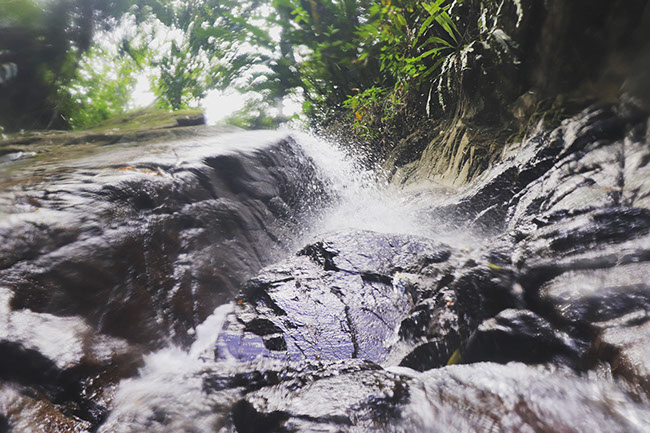
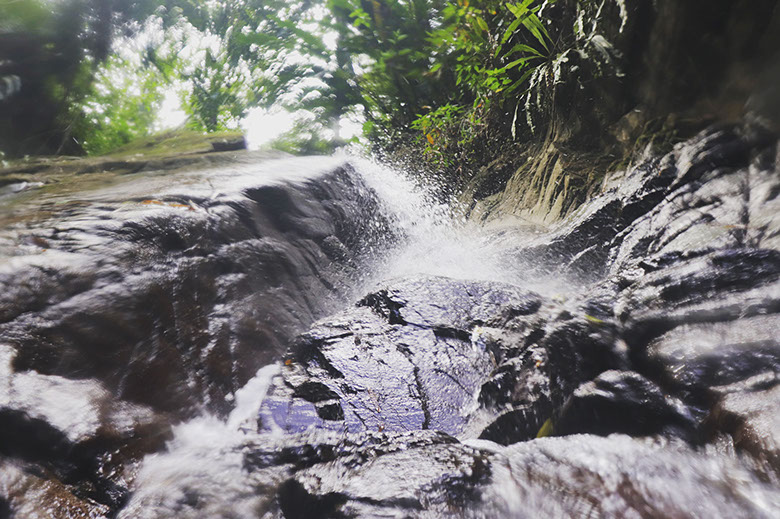
©

diff --git a/css/index.css b/css/index.css
@@ -1,1 +1,1 @@
-.version.index{color:#000019;background-color:#AFD612;}#page{z-index:1;width:960px;min-height:2310px;background-image:none;border-width:0px;border-color:#000000;background-color:#FFFFFF;margin-left:auto;margin-right:auto;}#page_position_content{padding-bottom:37px;width:0.01px;}#pu2362{z-index:49;width:0.01px;margin-left:-100px;}#u2362{z-index:49;height:62px;background-color:#2C2C2C;}.js body{visibility:hidden;}.js body.initialized{visibility:visible;}#u2362-bw{z-index:49;position:fixed;left:0px;right:0px;top:0px;}#menuu3822{z-index:50;width:400px;height:34px;border-width:0px;border-color:transparent;background-color:transparent;position:fixed;top:15px;left:310px;}#u3823{width:88px;min-height:34px;background-color:transparent;position:relative;margin-right:-10000px;}#u3824{width:88px;background-color:transparent;padding-bottom:17px;position:relative;}#u3824.MuseMenuActive{background-color:transparent;width:88px;min-height:0px;margin:0px;}#u3826-4{position:relative;margin-right:-10000px;top:8px;left:21px;}#u3826-4_clip{overflow:hidden;width:46px;height:17px;display:block;vertical-align:top;}#u3830{width:88px;min-height:34px;background-color:transparent;position:relative;margin-right:-10000px;left:90px;}#u3833{width:88px;background-color:transparent;padding-bottom:16px;position:relative;}#u3833:hover{background-color:#999999;width:88px;min-height:0px;margin:0px;}#u3833:active{background-color:#6B6B6B;width:88px;min-height:0px;margin:0px;}#u3836{height:18px;width:46px;vertical-align:top;position:relative;margin-right:-10000px;top:7px;left:21px;background:transparent url("../images/u3836.png?crc=4149235130") no-repeat 0px 0px;}.hidpi #u3836{background-image:url("../images/u3836_2x.png?crc=450650380");background-size:46px 18px;}#u3833.MuseMenuActive #u3836{background:transparent url("../images/u3836-a.png?crc=4152530115") no-repeat 0px 0px;}.hidpi #u3833.MuseMenuActive #u3836{background-image:url("../images/u3836-a_2x.png?crc=256771921");background-size:46px 18px;}#u3868{width:127px;min-height:34px;background-color:transparent;position:relative;margin-right:-10000px;left:180px;}#u3871{width:127px;background-color:transparent;padding-bottom:16px;position:relative;}#u3871:hover{background-color:#999999;width:127px;min-height:0px;margin:0px;}#u3871:active{background-color:#6B6B6B;width:127px;min-height:0px;margin:0px;}#u3872{height:18px;width:85px;vertical-align:top;position:relative;margin-right:-10000px;top:7px;left:21px;background:transparent url("../images/u3872.png?crc=313438367") no-repeat 0px 0px;}.hidpi #u3872{background-image:url("../images/u3872_2x.png?crc=466326802");background-size:85px 18px;}#u3871.MuseMenuActive #u3872{background:transparent url("../images/u3872-a.png?crc=3848881193") no-repeat 0px 0px;}.hidpi #u3871.MuseMenuActive #u3872{background-image:url("../images/u3872-a_2x.png?crc=4118279774");background-size:85px 18px;}#u3889{width:91px;min-height:34px;background-color:transparent;position:relative;margin-right:-10000px;left:309px;}#u3892{width:91px;background-color:transparent;padding-bottom:17px;position:relative;}#u3892:hover{background-color:#999999;width:91px;min-height:0px;margin:0px;}#u3892:active{background-color:#6B6B6B;width:91px;min-height:0px;margin:0px;}#u3895{height:17px;width:49px;vertical-align:top;position:relative;margin-right:-10000px;top:8px;left:21px;background:transparent url("../images/u3895.png?crc=52107680") no-repeat 0px 0px;}.hidpi #u3895{background-image:url("../images/u3895_2x.png?crc=3763377186");background-size:49px 17px;}#u3892.MuseMenuActive #u3895{background:transparent url("../images/u3895-a.png?crc=4263225876") no-repeat 0px 0px;}.hidpi #u3892.MuseMenuActive #u3895{background-image:url("../images/u3895-a_2x.png?crc=316500939");background-size:49px 17px;}.MenuItem{cursor:pointer;}#u4035{z-index:72;width:26px;background-color:transparent;position:fixed;top:18px;left:262px;}#pu2999-7{z-index:42;width:0.01px;padding-bottom:0px;margin-left:90px;margin-top:105px;}#u2999-7{z-index:42;display:block;vertical-align:top;margin-left:65px;position:relative;}#u2860{z-index:14;width:780px;background-color:transparent;margin-top:33px;position:relative;}#u2872-6{z-index:16;display:block;vertical-align:top;margin-left:219px;margin-top:15px;position:relative;}#pu1863{z-index:2;width:0.01px;margin-top:47px;}#u1863{z-index:2;width:230px;background-color:transparent;position:relative;margin-right:-10000px;}#u1865{z-index:4;width:230px;background-color:transparent;position:relative;margin-right:-10000px;left:275px;}#u1867{z-index:6;width:230px;background-color:transparent;position:relative;margin-right:-10000px;left:549px;}#u2878-6{z-index:28;display:block;vertical-align:top;margin-left:219px;margin-top:20px;position:relative;}#pu1896{z-index:8;width:0.01px;padding-bottom:57px;margin-top:44px;}#u1896{z-index:8;width:347px;background-color:transparent;-webkit-transform:matrix(0,1,-1,0,290,-57);-ms-transform:matrix(0,1,-1,0,290,-57);transform:matrix(0,1,-1,0,290,-57);position:relative;margin-right:-10000px;margin-top:57px;left:-57px;}#u1900{z-index:12;width:345px;background-color:transparent;-webkit-transform:matrix(0,1,-1,0,288,-57);-ms-transform:matrix(0,1,-1,0,288,-57);transform:matrix(0,1,-1,0,288,-57);position:relative;margin-right:-10000px;margin-top:57px;left:218px;}#u1898{z-index:10;width:345px;background-color:transparent;-webkit-transform:matrix(0,1,-1,0,288,-57);-ms-transform:matrix(0,1,-1,0,288,-57);transform:matrix(0,1,-1,0,288,-57);position:relative;margin-right:-10000px;margin-top:58px;left:491px;}#u2884-6{z-index:34;display:block;vertical-align:top;margin-left:219px;margin-top:20px;position:relative;}#u2943{z-index:40;width:650px;background-color:transparent;margin-left:65px;margin-top:68px;position:relative;}#u2959-6{z-index:22;display:block;vertical-align:top;margin-left:219px;top:-1px;margin-bottom:-1px;position:relative;}.css_verticalspacer .verticalspacer{height:calc(100vh - 2325px);}#muse_css_mq,.html{background-color:#FFFFFF;}body{position:relative;min-width:960px;}
+.version.index{color:#000002;background-color:#B097AB;}#page{z-index:1;width:960px;min-height:2451px;background-image:none;border-width:0px;border-color:#000000;background-color:#FFFFFF;margin-left:auto;margin-right:auto;}#page_position_content{padding-bottom:37px;width:0.01px;}#pu2362{z-index:53;width:0.01px;margin-left:-100px;}#u2362{z-index:53;height:62px;background-color:#2C2C2C;}.js body{visibility:hidden;}.js body.initialized{visibility:visible;}#u2362-bw{z-index:53;position:fixed;left:0px;right:0px;top:0px;}#menuu3822{z-index:54;width:400px;height:34px;border-width:0px;border-color:transparent;background-color:transparent;position:fixed;top:15px;left:310px;}#u3823{width:88px;min-height:34px;background-color:transparent;position:relative;margin-right:-10000px;}#u3824{width:88px;background-color:transparent;padding-bottom:17px;position:relative;}#u3824.MuseMenuActive{background-color:transparent;width:88px;min-height:0px;margin:0px;}#u3826-4{position:relative;margin-right:-10000px;top:8px;left:21px;}#u3826-4_clip{overflow:hidden;width:46px;height:17px;display:block;vertical-align:top;}#u3830{width:88px;min-height:34px;background-color:transparent;position:relative;margin-right:-10000px;left:90px;}#u3833{width:88px;background-color:transparent;padding-bottom:16px;position:relative;}#u3833:hover{background-color:#999999;width:88px;min-height:0px;margin:0px;}#u3833:active{background-color:#6B6B6B;width:88px;min-height:0px;margin:0px;}#u3836{height:18px;width:46px;vertical-align:top;position:relative;margin-right:-10000px;top:7px;left:21px;background:transparent url("../images/u3836.png?crc=4149235130") no-repeat 0px 0px;}.hidpi #u3836{background-image:url("../images/u3836_2x.png?crc=450650380");background-size:46px 18px;}#u3833.MuseMenuActive #u3836{background:transparent url("../images/u3836-a.png?crc=4152530115") no-repeat 0px 0px;}.hidpi #u3833.MuseMenuActive #u3836{background-image:url("../images/u3836-a_2x.png?crc=256771921");background-size:46px 18px;}#u3868{width:127px;min-height:34px;background-color:transparent;position:relative;margin-right:-10000px;left:180px;}#u3871{width:127px;background-color:transparent;padding-bottom:16px;position:relative;}#u3871:hover{background-color:#999999;width:127px;min-height:0px;margin:0px;}#u3871:active{background-color:#6B6B6B;width:127px;min-height:0px;margin:0px;}#u3872{height:18px;width:85px;vertical-align:top;position:relative;margin-right:-10000px;top:7px;left:21px;background:transparent url("../images/u3872.png?crc=313438367") no-repeat 0px 0px;}.hidpi #u3872{background-image:url("../images/u3872_2x.png?crc=466326802");background-size:85px 18px;}#u3871.MuseMenuActive #u3872{background:transparent url("../images/u3872-a.png?crc=3848881193") no-repeat 0px 0px;}.hidpi #u3871.MuseMenuActive #u3872{background-image:url("../images/u3872-a_2x.png?crc=4118279774");background-size:85px 18px;}#u3889{width:91px;min-height:34px;background-color:transparent;position:relative;margin-right:-10000px;left:309px;}#u3892{width:91px;background-color:transparent;padding-bottom:17px;position:relative;}#u3892:hover{background-color:#999999;width:91px;min-height:0px;margin:0px;}#u3892:active{background-color:#6B6B6B;width:91px;min-height:0px;margin:0px;}#u3895{height:17px;width:49px;vertical-align:top;position:relative;margin-right:-10000px;top:8px;left:21px;background:transparent url("../images/u3895.png?crc=52107680") no-repeat 0px 0px;}.hidpi #u3895{background-image:url("../images/u3895_2x.png?crc=3763377186");background-size:49px 17px;}#u3892.MuseMenuActive #u3895{background:transparent url("../images/u3895-a.png?crc=4263225876") no-repeat 0px 0px;}.hidpi #u3892.MuseMenuActive #u3895{background-image:url("../images/u3895-a_2x.png?crc=316500939");background-size:49px 17px;}.MenuItem{cursor:pointer;}#u4035{z-index:76;width:26px;background-color:transparent;position:fixed;top:18px;left:262px;}#pu2999-7{z-index:46;width:0.01px;padding-bottom:0px;margin-left:90px;margin-top:105px;}#u2999-7{z-index:46;display:block;vertical-align:top;margin-left:65px;position:relative;}#u2860{z-index:14;width:780px;background-color:transparent;margin-top:33px;position:relative;}#u2872-6{z-index:16;display:block;vertical-align:top;margin-left:219px;margin-top:15px;position:relative;}#pu1863{z-index:2;width:0.01px;margin-top:47px;}#u1863{z-index:2;width:230px;background-color:transparent;position:relative;margin-right:-10000px;}#u1865{z-index:4;width:230px;background-color:transparent;position:relative;margin-right:-10000px;left:275px;}#u1867{z-index:6;width:230px;background-color:transparent;position:relative;margin-right:-10000px;left:549px;}#u2878-6{z-index:32;display:block;vertical-align:top;margin-left:220px;margin-top:20px;position:relative;}#pu1896{z-index:8;width:0.01px;padding-bottom:57px;margin-top:44px;}#u1896{z-index:8;width:347px;background-color:transparent;-webkit-transform:matrix(0,1,-1,0,290,-57);-ms-transform:matrix(0,1,-1,0,290,-57);transform:matrix(0,1,-1,0,290,-57);position:relative;margin-right:-10000px;margin-top:57px;left:-57px;}#u1900{z-index:12;width:345px;background-color:transparent;-webkit-transform:matrix(0,1,-1,0,288,-57);-ms-transform:matrix(0,1,-1,0,288,-57);transform:matrix(0,1,-1,0,288,-57);position:relative;margin-right:-10000px;margin-top:57px;left:218px;}#u1898{z-index:10;width:345px;background-color:transparent;-webkit-transform:matrix(0,1,-1,0,288,-57);-ms-transform:matrix(0,1,-1,0,288,-57);transform:matrix(0,1,-1,0,288,-57);position:relative;margin-right:-10000px;margin-top:58px;left:491px;}#u2884-6{z-index:38;display:block;vertical-align:top;margin-left:220px;margin-top:20px;position:relative;}#u2943{z-index:44;width:780px;background-color:transparent;margin-top:25px;position:relative;}#u2959-6{z-index:22;display:block;vertical-align:top;margin-left:219px;margin-top:23px;position:relative;}#u4733-4{z-index:28;display:block;vertical-align:top;margin-left:15px;margin-top:57px;position:relative;}.css_verticalspacer .verticalspacer{height:calc(100vh - 2483px);}#muse_css_mq,.html{background-color:#FFFFFF;}body{position:relative;min-width:960px;}

diff --git a/index.html b/index.html
@@ -17,7 +17,7 @@ if(typeof Muse == "undefined") window.Muse = {}; window.Muse.assets = {"required
   <title>Home</title>
   <!-- CSS -->
   <link rel="stylesheet" type="text/css" href="css/site_global.css?crc=390033707"/>
-  <link rel="stylesheet" type="text/css" href="css/index.css?crc=430954002" id="pagesheet"/>
+  <link rel="stylesheet" type="text/css" href="css/index.css?crc=45127595" id="pagesheet"/>
   <!-- JS includes -->
   <!--[if lt IE 9]>
   <script src="scripts/html5shiv.js?crc=4241844378" type="text/javascript"></script>
@@ -67,10 +67,11 @@ if(typeof Muse == "undefined") window.Muse = {}; window.Muse.assets = {"required
       <a class="nonblock nontext clip_frame grpelem" id="u1898" href="analogue.html" data-mu-ie-matrix="progid:DXImageTransform.Microsoft.Matrix(M11=0,M12=-1,M21=1,M22=0,SizingMethod='auto expand')" data-mu-ie-matrix-dx="57" data-mu-ie-matrix-dy="-57"><!-- image --><img class="block" id="u1898_img" src="images/r001-006.jpg?crc=3959140156" data-hidpi-src="images/r001-006_2x.jpg?crc=4228169104" alt="" width="345" height="232"/></a>
      </div>
      <img class="colelem" id="u2884-6" alt="analogue // kingston upon thames, england pentax k1000" width="341" height="35" src="images/u2884-6.png?crc=217291951" data-hidpi-src="images/u2884-6_2x.png?crc=4213142635"/><!-- rasterized frame -->
-     <a class="nonblock nontext clip_frame colelem" id="u2943" href="hazy-falls.html"><!-- image --><img class="block" id="u2943_img" src="images/img_3278.jpg?crc=181045923" data-hidpi-src="images/img_3278_2x.jpg?crc=3956590227" alt="" width="650" height="433"/></a>
+     <a class="nonblock nontext clip_frame colelem" id="u2943" href="hazy-falls.html"><!-- image --><img class="block" id="u2943_img" src="images/img_3278.jpg?crc=506234080" data-hidpi-src="images/img_3278_2x.jpg?crc=4025056178" alt="" width="780" height="519"/></a>
      <img class="colelem" id="u2959-6" alt="hazy falls // castara, tobago canon 77d" width="341" height="34" src="images/u2959-6.png?crc=459715548" data-hidpi-src="images/u2959-6_2x.png?crc=40515119"/><!-- rasterized frame -->
+     <img class="colelem" id="u4733-4" alt="ALL PHOTOS ON THIS PAGE © NIKO AGOURAKIS 2018" width="749" height="34" src="images/u4733-4.png?crc=4108001918" data-hidpi-src="images/u4733-4_2x.png?crc=83815115"/><!-- rasterized frame -->
     </div>
-    <div class="verticalspacer" data-offset-top="2290" data-content-above-spacer="2289" data-content-below-spacer="36"></div>
+    <div class="verticalspacer" data-offset-top="2448" data-content-above-spacer="2447" data-content-below-spacer="36"></div>
    </div>
   </div>
   <div class="preload_images">
